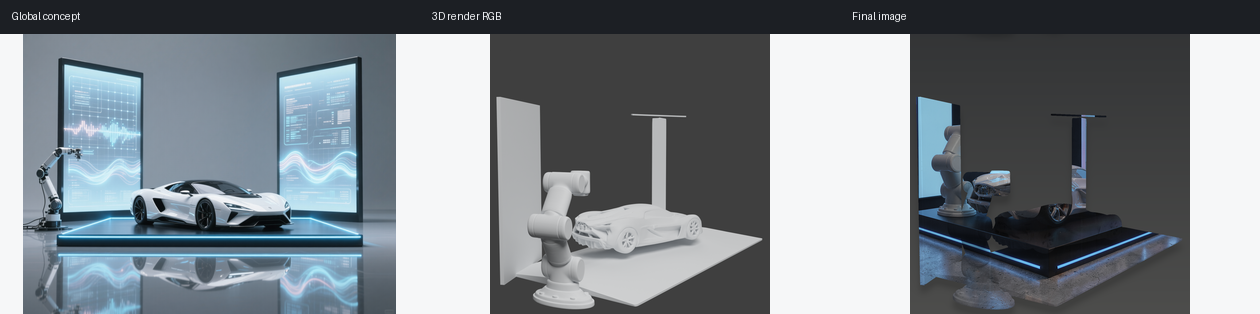
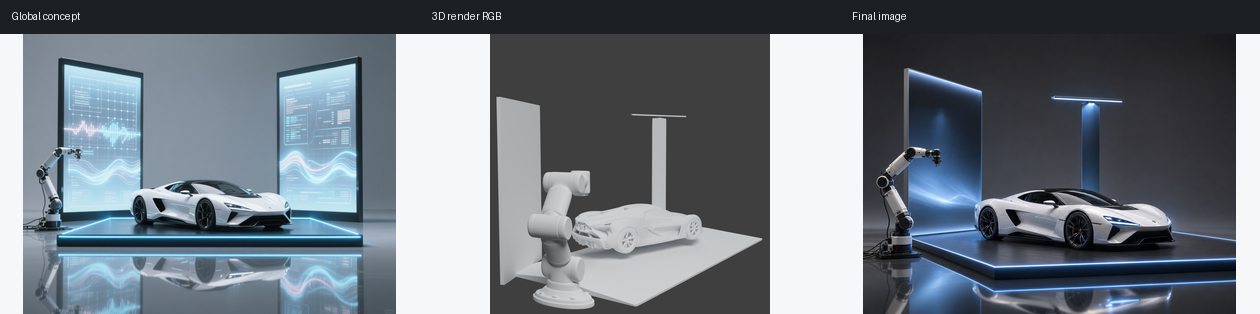
feat: backfill auto scene position retry assets

Changed region(s): [[0.681, 0.086, 0.9905, 1.0]]

diff --git a/src/local3dai/cli.py b/src/local3dai/cli.py
@@ -9,11 +9,20 @@ from typing import Any
 
 from .agent import AgentRunOptions, run_agent_render, summarize_agent_report
 from .auto_agent import AutoRunOptions, qwen_runtime_status, run_auto_agent
-from .auto_scene import AutoSceneOptions, audit_auto_scene_image2_flow, import_codex_image2_result, import_latest_codex_image2_results, run_auto_scene
+from .auto_scene import (
+    AutoSceneOptions,
+    audit_auto_scene_image2_flow,
+    create_final_position_retry_plan,
+    create_white_model_position_contract,
+    create_white_model_position_lock_report,
+    import_codex_image2_result,
+    import_latest_codex_image2_results,
+    run_auto_scene,
+)
 from .ai.backends import build_backend
 from .config import load_config, resolve_path, write_config
 from .environment import detect_environment, print_report
-from .manifest import read_manifest
+from .manifest import read_manifest, write_manifest
 from .modelgen import generate_3d_model
 from .rendering.blender import render_model_with_blender
 from .sample import create_sample_renders
@@ -374,6 +383,121 @@ def _retry_request_from_plan(workdir: Path, plan: dict[str, Any]) -> Path:
     return request_path
 
 
+def _read_manifest_if_exists(path: Path) -> dict[str, Any]:
+    return read_manifest(path) if path.exists() else {}
+
+
+def _resolve_workdir_artifact(workdir: Path, raw: Any, fallback: Path) -> Path:
+    path = Path(str(raw or fallback)).expanduser()
+    if not path.is_absolute():
+        path = workdir / path
+    return path
+
+
+def _infer_auto_scene_views(summary: dict[str, Any], auto_task: dict[str, Any], args: argparse.Namespace) -> int:
+    if args.views:
+        return int(args.views)
+    if auto_task.get("output_views"):
+        return int(auto_task["output_views"])
+    final_view_images = summary.get("final_view_images", {})
+    if isinstance(final_view_images, dict) and final_view_images:
+        return len(final_view_images)
+    return 3
+
+
+def cmd_auto_scene_plan_position_retry(args: argparse.Namespace) -> int:
+    workdir = Path(args.workdir).expanduser().resolve()
+    summary_path = workdir / "auto_scene_summary.json"
+    summary = _read_manifest_if_exists(summary_path)
+    auto_task_path = _resolve_workdir_artifact(workdir, summary.get("auto_task"), workdir / "auto_task.json")
+    auto_task = _read_manifest_if_exists(auto_task_path)
+    render_manifest = _resolve_workdir_artifact(workdir, args.render_manifest or summary.get("render_manifest"), workdir / "renders" / "render_manifest.json")
+    final_image = _resolve_workdir_artifact(workdir, args.final_image or summary.get("final_image"), workdir / "final" / "final_view_hero.png")
+    if not render_manifest.exists():
+        raise FileNotFoundError(f"Missing Auto Scene render manifest: {render_manifest}")
+    if not final_image.exists():
+        raise FileNotFoundError(f"Missing Auto Scene final image: {final_image}")
+
+    reports_dir = workdir / "reports"
+    final_dir = workdir / "final"
+    reports_dir.mkdir(parents=True, exist_ok=True)
+    final_dir.mkdir(parents=True, exist_ok=True)
+    output_views = _infer_auto_scene_views(summary, auto_task, args)
+    position_contract_path = _resolve_workdir_artifact(
+        workdir,
+        args.position_contract or summary.get("white_model_position_contract"),
+        reports_dir / "white_model_position_contract.json",
+    )
+    position_lock_path = _resolve_workdir_artifact(
+        workdir,
+        args.position_lock_report or summary.get("white_model_position_lock"),
+        reports_dir / "white_model_position_lock.json",
+    )
+    retry_plan_path = reports_dir / "final_position_retry_plan.json"
+    final_request_path = final_dir / "codex_image2_final_request.json"
+
+    position_contract = create_white_model_position_contract(
+        render_manifest=render_manifest,
+        output_report=position_contract_path,
+        output_image=final_dir / "white_position_contract_overlay.png",
+        output_views=output_views,
+    )
+    position_lock = create_white_model_position_lock_report(
+        final_image=final_image,
+        render_manifest=render_manifest,
+        output_report=position_lock_path,
+        output_image=final_dir / "white_position_lock_overlay.png",
+    )
+    retry_plan = create_final_position_retry_plan(
+        workdir=workdir,
+        final_request_path=final_request_path,
+        white_lock_report=position_lock,
+        position_contract_path=position_contract_path,
+        output_report=retry_plan_path,
+    )
+
+    if summary and not args.no_summary_update:
+        summary["white_model_position_contract"] = str(position_contract_path)
+        summary["white_position_contract_overlay"] = str(final_dir / "white_position_contract_overlay.png")
+        summary["white_model_position_lock"] = str(position_lock_path)
+        summary["white_position_lock_overlay"] = str(final_dir / "white_position_lock_overlay.png")
+        summary["final_position_retry_plan"] = str(retry_plan_path)
+        capabilities = summary.setdefault("capabilities", {})
+        if isinstance(capabilities, dict):
+            capabilities["white_model_position_contract"] = {
+                "enabled": True,
+                "status": position_contract.get("status", ""),
+                "contract_count": position_contract.get("contract_count", 0),
+            }
+            capabilities["white_model_position_lock"] = {
+                "enabled": True,
+                "status": position_lock.get("status", ""),
+                "total": position_lock.get("metrics", {}).get("total", 0.0),
+            }
+            capabilities["final_position_retry_plan"] = {
+                "enabled": True,
+                "status": retry_plan.get("status", ""),
+            }
+        write_manifest(summary_path, summary)
+
+    result = {
+        "status": "planned",
+        "workdir": str(workdir),
+        "render_manifest": str(render_manifest),
+        "final_image": str(final_image),
+        "white_model_position_contract": str(position_contract_path),
+        "white_model_position_contract_status": position_contract.get("status", ""),
+        "white_model_position_lock": str(position_lock_path),
+        "white_model_position_lock_status": position_lock.get("status", ""),
+        "final_position_retry_plan": str(retry_plan_path),
+        "retry_plan_status": retry_plan.get("status", ""),
+        "retry_request": retry_plan.get("retry_request", ""),
+        "codex_image2_handoff": retry_plan.get("codex_image2_handoff", ""),
+    }
+    print(json.dumps(result, ensure_ascii=False, indent=2))
+    return 0 if retry_plan.get("status") in {"awaiting_codex_image2_retry", "not_needed"} or args.allow_not_applicable else 2
+
+
 def cmd_auto_scene_run_position_retry(args: argparse.Namespace) -> int:
     workdir = Path(args.workdir).expanduser().resolve()
     plan_path = workdir / "reports" / "final_position_retry_plan.json"
@@ -686,6 +810,20 @@ def build_parser() -> argparse.ArgumentParser:
     latest_image2_import.add_argument("--after-timestamp", type=float, help="Only import generated files newer than this Unix timestamp")
     latest_image2_import.add_argument("--newest-first", action="store_true", help="Map newest files to request order instead of oldest-newer files to request order")
     latest_image2_import.set_defaults(func=cmd_auto_scene_import_latest_image2)
+
+    position_retry_plan = subparsers.add_parser(
+        "auto-scene-plan-position-retry",
+        help="Backfill white-model position reports and a Codex image2 retry plan for an existing Auto Scene workdir",
+    )
+    position_retry_plan.add_argument("--workdir", required=True, help="Existing Auto Scene workdir with renders/render_manifest.json and final/final_view_hero.png")
+    position_retry_plan.add_argument("--render-manifest", help="Override render_manifest path")
+    position_retry_plan.add_argument("--final-image", help="Override final image path")
+    position_retry_plan.add_argument("--position-contract", help="Override output/read path for reports/white_model_position_contract.json")
+    position_retry_plan.add_argument("--position-lock-report", help="Override output path for reports/white_model_position_lock.json")
+    position_retry_plan.add_argument("--views", type=int, help="Number of render views to include in the white-model position contract")
+    position_retry_plan.add_argument("--no-summary-update", action="store_true", help="Do not write generated artifact paths back into auto_scene_summary.json")
+    position_retry_plan.add_argument("--allow-not-applicable", action="store_true", help="Return exit code 0 even if a retry plan cannot be created")
+    position_retry_plan.set_defaults(func=cmd_auto_scene_plan_position_retry)
 
     position_retry = subparsers.add_parser(
         "auto-scene-run-position-retry",

diff --git a/tests/test_cli.py b/tests/test_cli.py
@@ -9,7 +9,8 @@ from pathlib import Path
 from unittest.mock import patch
 
 from local3dai.cli import build_parser
-from local3dai.manifest import write_manifest
+from local3dai.manifest import read_manifest, write_manifest
+from PIL import Image, ImageDraw
 
 
 class AutoSceneCliTest(unittest.TestCase):
@@ -129,6 +130,54 @@ class AutoSceneCliTest(unittest.TestCase):
             self.assertEqual(result["import"]["import_count"], 1)
             import_latest.assert_called_once()
             run_scene.assert_not_called()
+
+    def test_auto_scene_plan_position_retry_backfills_existing_workdir(self) -> None:
+        with tempfile.TemporaryDirectory() as tmp:
+            root = Path(tmp)
+            view_dir = root / "renders" / "view_hero"
+            view_dir.mkdir(parents=True)
+            files = {}
+            for channel in ("rgb", "edge", "mask", "depth", "normal"):
+                path = view_dir / f"{channel}.png"
+                image = Image.new("RGB", (128, 128), (34, 36, 40))
+                ImageDraw.Draw(image).rectangle((24, 42, 106, 92), fill=(232, 234, 238), outline=(80, 150, 230), width=3)
+                image.save(path)
+                files[channel] = str(path)
+            final_image = root / "final" / "final_view_hero.png"
+            final_image.parent.mkdir(parents=True, exist_ok=True)
+            Image.new("RGB", (128, 128), (70, 70, 70)).save(final_image)
+            render_manifest = write_manifest(root / "renders" / "render_manifest.json", {"views": [{"view_id": "view_hero", "files": files}]})
+            write_manifest(
+                root / "auto_scene_summary.json",
+                {
+                    "type": "auto_scene_summary",
+                    "status": "needs_review",
+                    "workdir": str(root),
+                    "render_manifest": str(render_manifest),
+                    "final_image": str(final_image),
+                    "final_view_images": {"view_hero": str(final_image)},
+                    "capabilities": {},
+                },
+            )
+
+            code, result = self._run_cli(["auto-scene-plan-position-retry", "--workdir", str(root)])
+
+            self.assertEqual(code, 0)
+            self.assertEqual(result["retry_plan_status"], "awaiting_codex_image2_retry")
+            self.assertTrue(Path(result["white_model_position_contract"]).exists())
+            self.assertTrue(Path(result["white_model_position_lock"]).exists())
+            self.assertTrue(Path(result["final_position_retry_plan"]).exists())
+            final_request = read_manifest(root / "final" / "codex_image2_final_request.json")
+            self.assertEqual(final_request["status"], "synthesized_for_position_retry")
+            self.assertEqual(final_request["provider"], "codex_builtin_image2")
+            retry_request = read_manifest(result["retry_request"])
+            self.assertEqual(retry_request["status"], "awaiting_codex_image2")
+            roles = {entry["role"] for entry in retry_request["requests"][0]["input_images"]}
+            self.assertIn("white_model_rgb_position_lock", roles)
+            self.assertIn("edge_silhouette_lock", roles)
+            self.assertNotIn("negative_prompt", str(final_request))
+            summary = read_manifest(root / "auto_scene_summary.json")
+            self.assertEqual(summary["capabilities"]["final_position_retry_plan"]["status"], "awaiting_codex_image2_retry")
 
 
 if __name__ == "__main__":

diff --git a/README.md b/README.md
@@ -24,7 +24,7 @@ The paper has been updated with the June 18, 2026 Auto Scene run. This run valid
 concept planning -> module references -> module 3D -> 3D scene assembly -> Blender white-model channels -> final AI render
 ```
 
-Current status is intentionally recorded as `needs_review`, not `pass`. The latest run generated 5 Hunyuan3D 2.1 high-profile module GLBs with no procedural fallback and reached a module presence score of `0.855333`, a multiview score of `0.789947`, and a minimum structure review score of `0.551932`. The concept/final comparison still fails `white_hero_presence`; the final image's central white subject ratio is about `0.000431`, far below the concept target. Camera search now records and scores against a concept-derived composition target, module mesh sanity checks semantic slab/panel geometry, and final image2 requests carry a normalized white-model position contract with an automatic retry handoff when the final image drifts from the contract. The next engineering target is running the corrected Codex image2 retry loop on real final assets and replacing the stale `needs_review` result imagery.
+Current status is intentionally recorded as `needs_review`, not `pass`, because the full three-view scene has not been re-rendered end to end after the retry pass. The June 18 run generated 5 Hunyuan3D 2.1 high-profile module GLBs with no procedural fallback and reached a module presence score of `0.855333`, a multiview score of `0.789947`, and a minimum structure review score of `0.551932`. The corrected Codex image2 hero retry now preserves the white-model hero position: `white_model_position_lock` passes with total `0.708514`, the concept/final comparison passes, and `final_position_retry_plan` reports `not_needed` for the hero view. The remaining engineering target is applying the same corrected loop to the side views and rerunning the complete multi-view Auto Scene package.
 
 ![Latest module references](docs/paper_assets/module_references_contact.png)
 
@@ -184,6 +184,13 @@ If Codex saved the built-in image2 output under `$CODEX_HOME/generated_images`, 
 ```bash
 PYTHONPATH=src .venv/bin/python -m local3dai.cli auto-scene-import-latest-image2 \
   --request outputs/auto_scene/demo_showroom/concept/imagegen_request.json
+```
+
+For older runs that already have `renders/render_manifest.json` and `final/final_view_hero.png` but do not yet have the position retry artifacts, backfill the white-model position reports and retry handoff first:
+
+```bash
+PYTHONPATH=src .venv/bin/python -m local3dai.cli auto-scene-plan-position-retry \
+  --workdir outputs/auto_scene/demo_showroom
 ```
 
 When `reports/final_position_retry_plan.json` reports `awaiting_codex_image2_retry`, the corrected final-render loop can be resumed from the workdir. The command reads the retry request, imports the latest Codex image2 result, then reruns the same Auto Scene workdir with the original task options from `auto_task.json`/`auto_scene_summary.json`:
